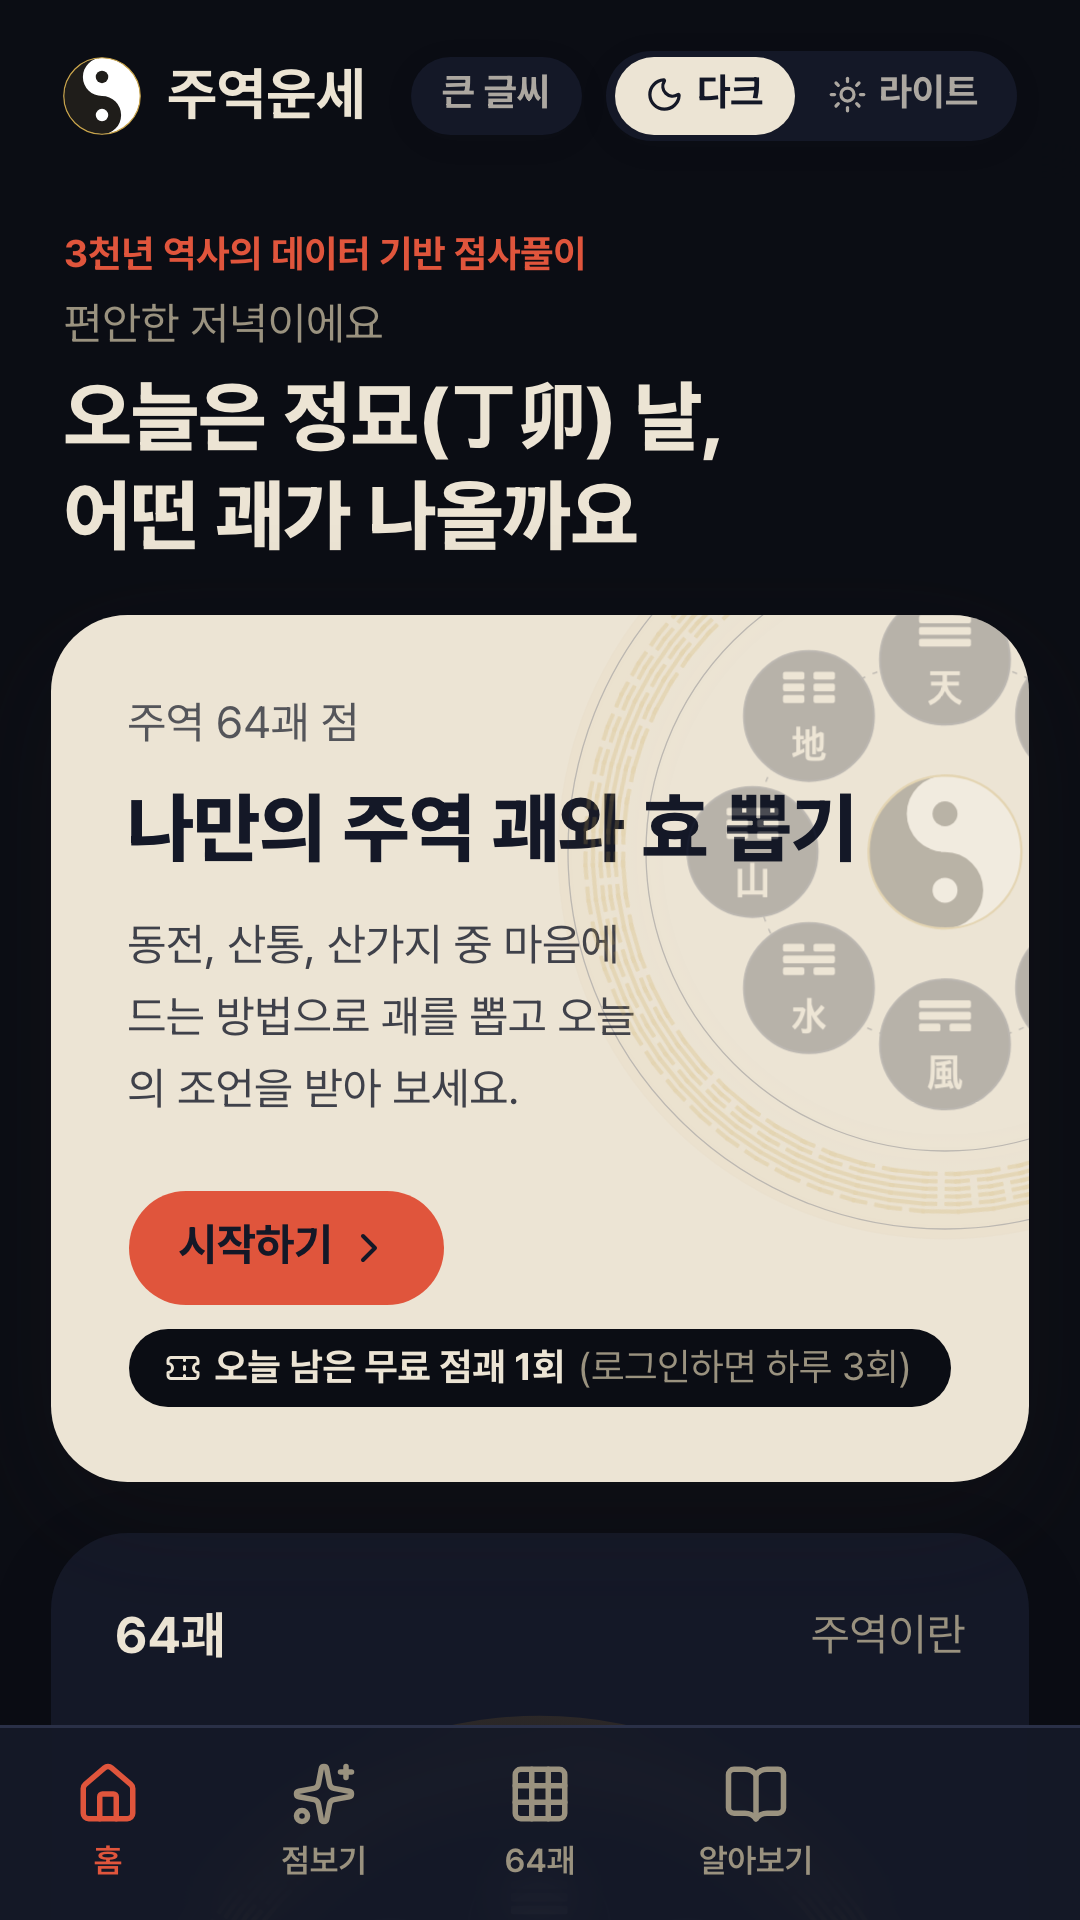
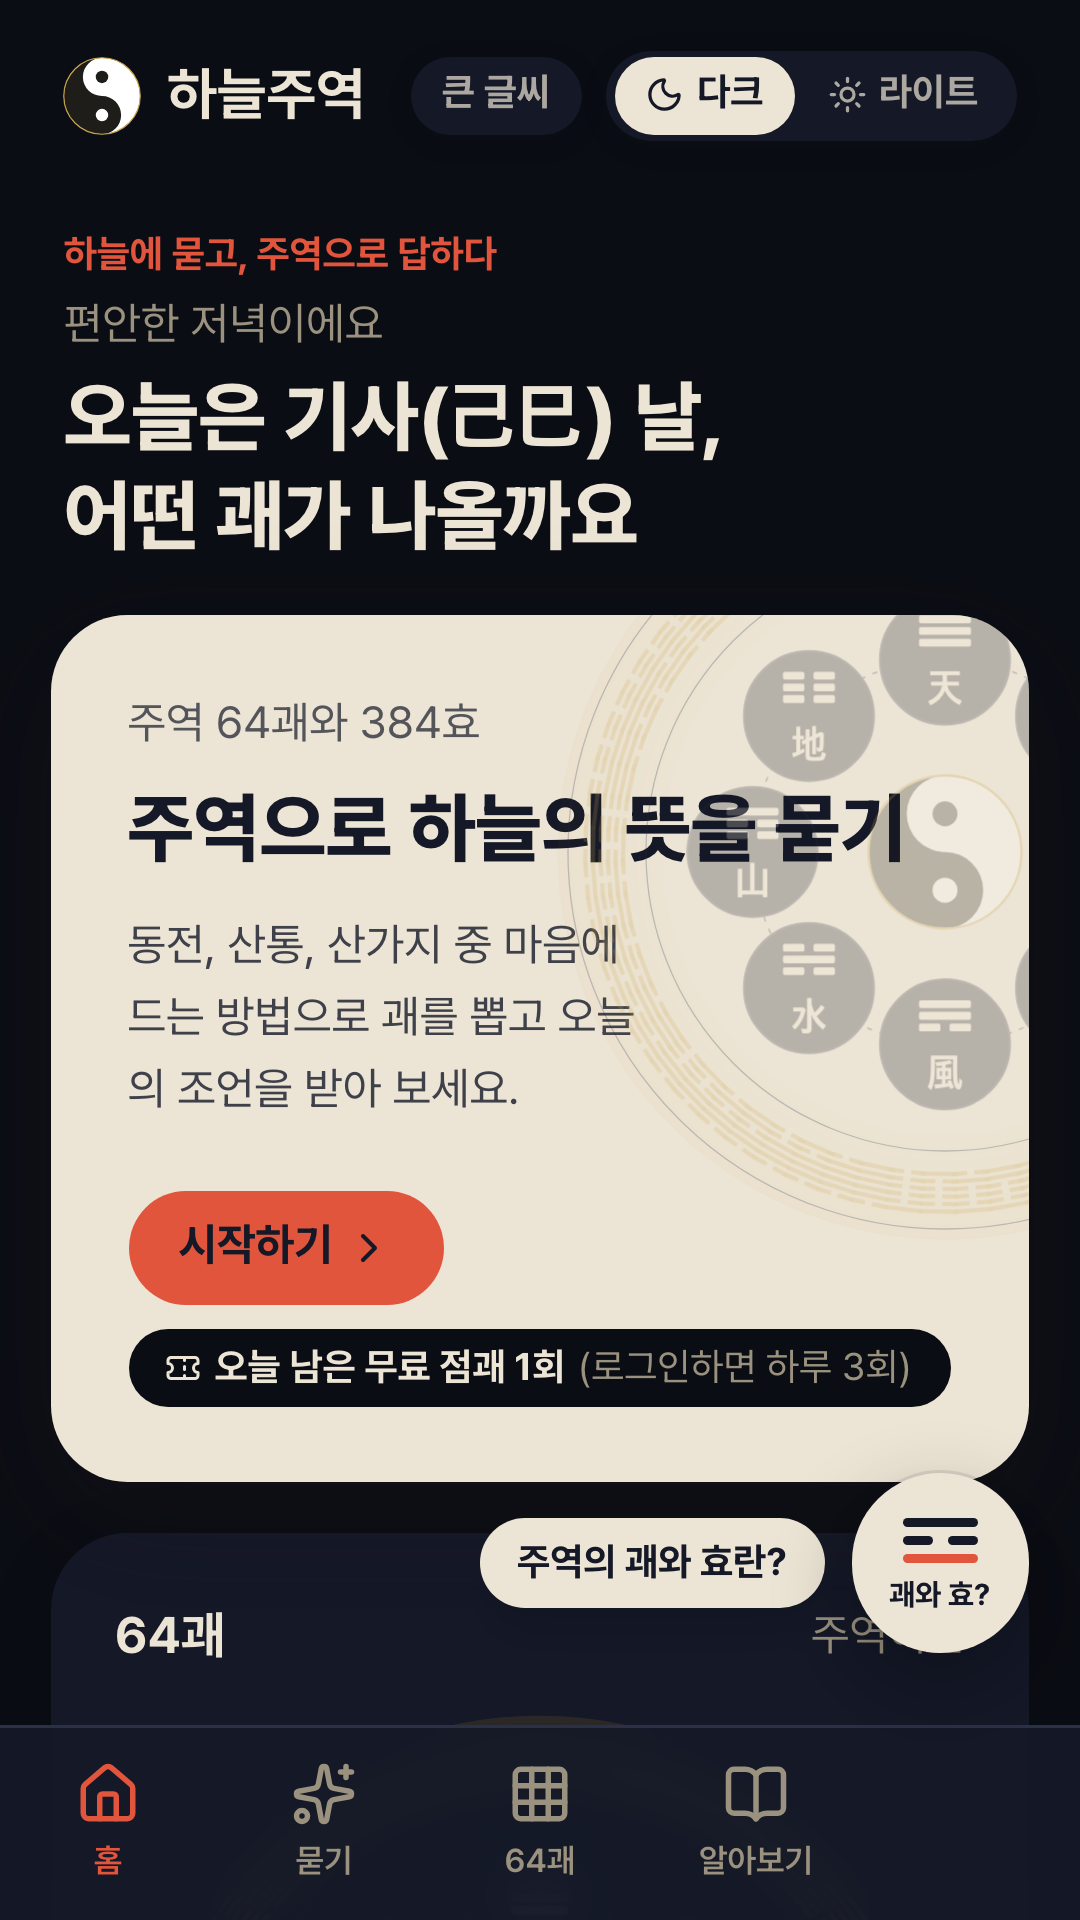
Recapture the five store screenshots with the 하늘주역 branding

diff --git a/checklist.md b/checklist.md
@@ -476,4 +476,4 @@
 - [x] 확정 로고 E2: 노을 배경, 초승달, 왼쪽 위 북두칠성, 兌괘(☱ 기쁨), 민화 구름. store/logo/logo-E2-minhwa.svg, icon-E2.svg, icon-E2-maskable.svg
 - [x] 앱 아이콘 v3 교체: public/icon-v3.svg, icon-v3-512/192.png, icon-v3-maskable-512.png(안전 영역 80%), apple-touch-icon-v3.png. 매니페스트, layout, sw.js 알림 아이콘 연결. 옛 v2와 v1 아이콘 삭제
 - [x] 스토어: store/store-icon-1024.png(Play 아이콘), store/feature-graphic-1024x500.png 다시 제작
-- [ ] 대표: 스토어 스크린샷(store/screen-*.png)은 옛 이름이 보이므로 배포 뒤 다시 캡처 필요
+- [x] 스토어 스크린샷 5장 새 이름으로 다시 캡처(실제 사이트, 1080x1920, 다크). store/screens-sheet.png에 모아 봄
